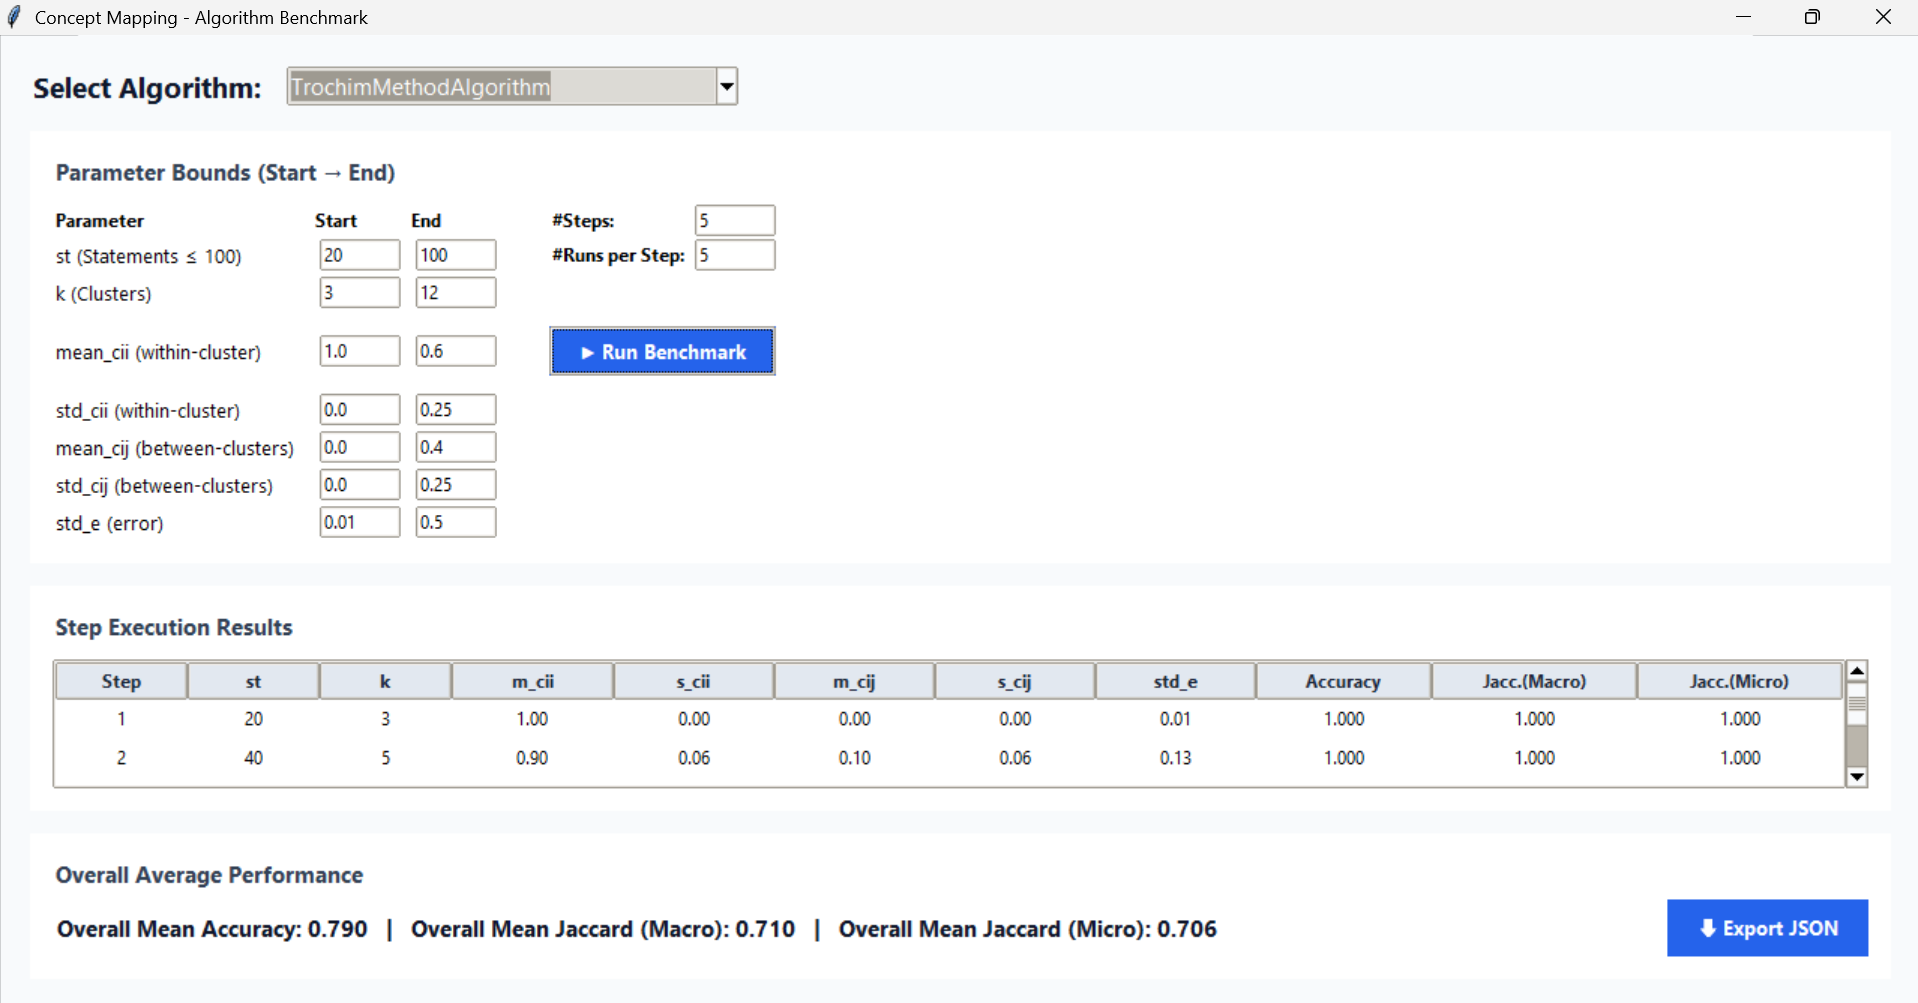
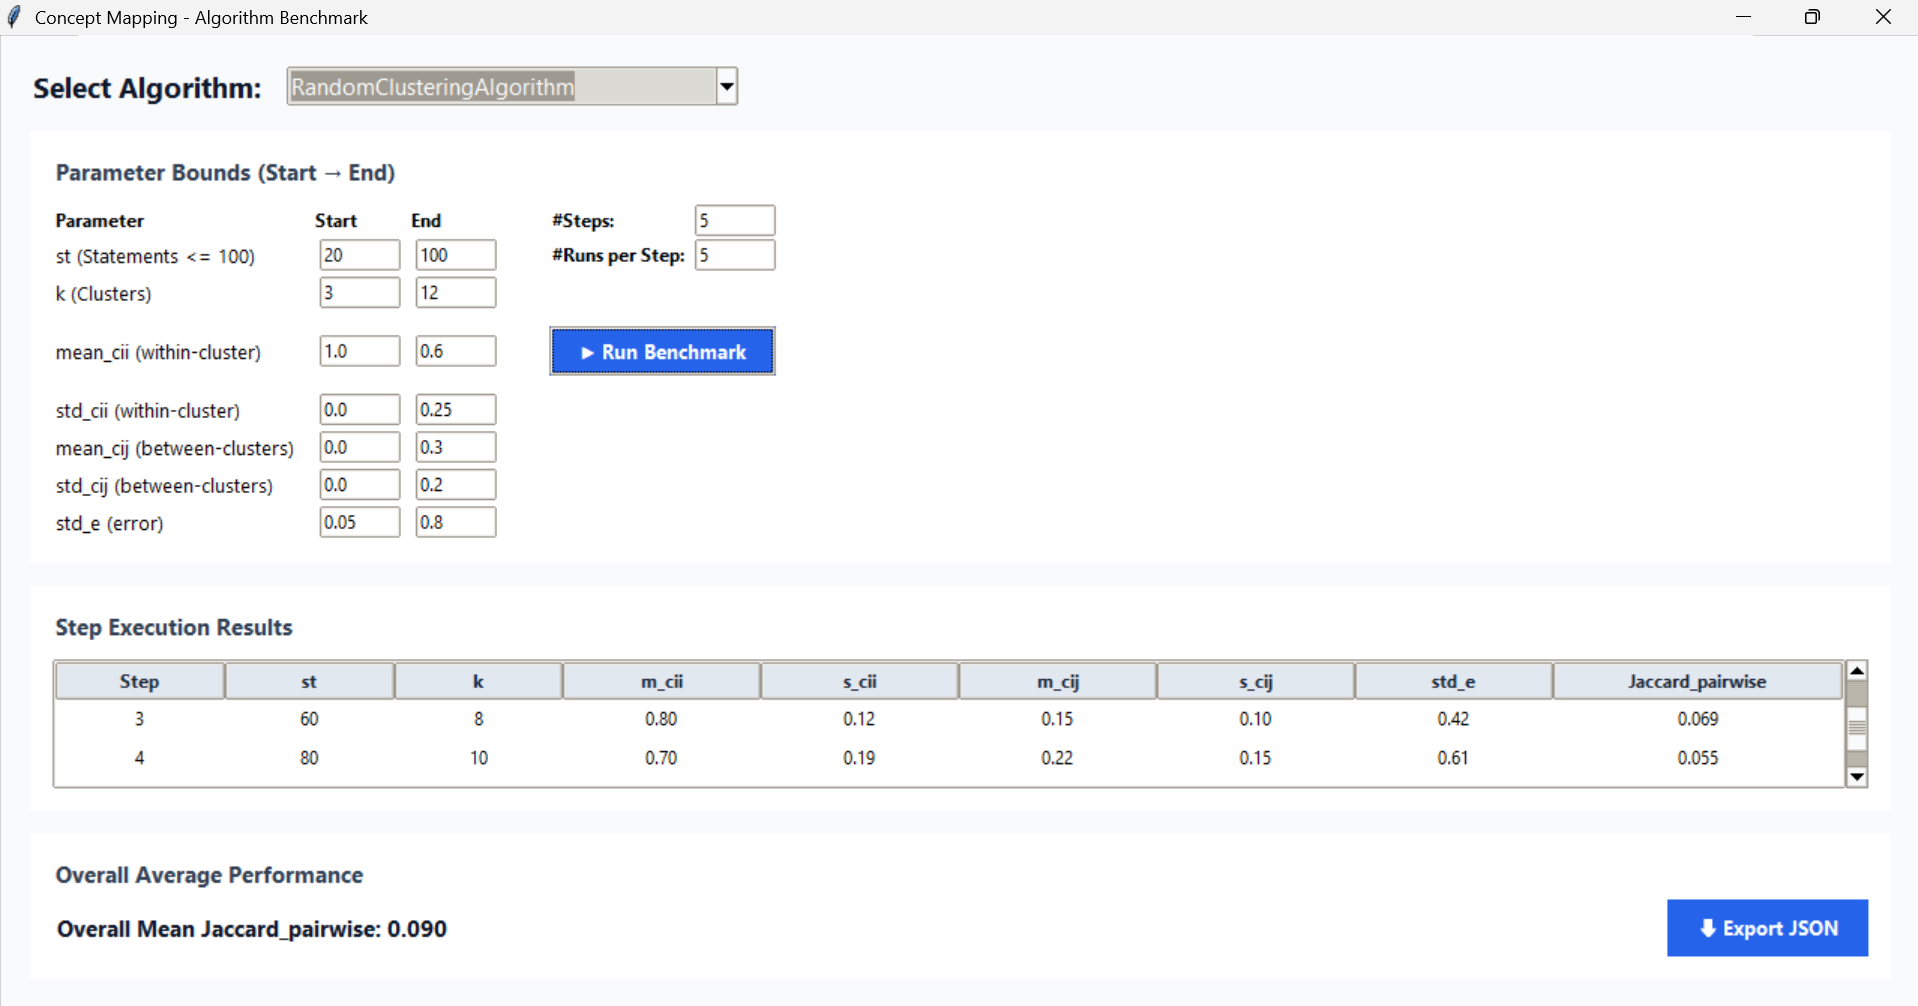
[updated] update images, simplify metrics, update the document, ignore some folders, fix minor changes

diff --git a/gui/app.py b/gui/app.py
@@ -4,7 +4,6 @@ import numpy as np
 import matplotlib.pyplot as plt
 from matplotlib.backends.backend_tkagg import FigureCanvasTkAgg
 from sklearn.manifold import MDS
-import pandas as pd
 import json
 import os
 import sys
@@ -89,9 +88,6 @@ class ExperimentApp:
         main_container = ttk.Frame(self.root, padding=20)
         main_container.pack(fill=tk.BOTH, expand=True)
 
-        # -----------------------------------------------------
-        # 1. HEADER CARD
-        # -----------------------------------------------------
         header_frame = ttk.Frame(main_container)
         header_frame.pack(side=tk.TOP, fill=tk.X, pady=(0, 15))
         ttk.Label(header_frame, text="Select Algorithm:", style="Header.TLabel").pack(side=tk.LEFT)
@@ -105,18 +101,14 @@ class ExperimentApp:
         elif self.available_algs:
             self.alg_combo.current(0)
 
-        # -----------------------------------------------------
-        # 2. CONFIGURATION CARD
-        # -----------------------------------------------------
         config_card = ttk.Frame(main_container, style="Card.TFrame", padding=15)
         config_card.pack(side=tk.TOP, fill=tk.X, pady=(0, 15))
 
-        ttk.Label(config_card, text="Parameter Bounds (Start → End)", style="SubHeader.TLabel").grid(row=0, column=0, columnspan=6, sticky="w", pady=(0, 10))
+        ttk.Label(config_card, text="Parameter Bounds (Start -> End)", style="SubHeader.TLabel").grid(row=0, column=0, columnspan=6, sticky="w", pady=(0, 10))
 
         self.inputs = {}
         json_params = self.settings.get("parameters", {})
         
-        # Tuple format: (Label, Key, Default Start, Default End)
         param_keys = [
             ("st (Statements <= 100)", "st", "20", "100"),
             ("k (Clusters)", "k", "3", "12"),
@@ -134,7 +126,6 @@ class ExperimentApp:
         for idx, (label, key, def_start, def_end) in enumerate(param_keys, start=2):
             ttk.Label(config_card, text=label, background="#ffffff").grid(row=idx, column=0, sticky="w", pady=2, padx=(0, 10))
             
-            # Fetch from JSON if exists, otherwise use the realistic defaults defined above
             start_val = str(json_params.get(label, {}).get("start", def_start))
             end_val = str(json_params.get(label, {}).get("end", def_end))
             
@@ -160,12 +151,9 @@ class ExperimentApp:
         self.iters_entry.insert(0, str(run_settings.get("iterations_per_step", 5)))
         self.iters_entry.grid(row=2, column=5, sticky="w")
 
-        run_btn = ttk.Button(config_card, text="▶ Run Benchmark", style="Primary.TButton", command=self.run_experiment)
+        run_btn = ttk.Button(config_card, text="Run Benchmark", style="Primary.TButton", command=self.run_experiment)
         run_btn.grid(row=4, column=4, columnspan=2, sticky="ew", padx=(30, 0), pady=10)
 
-        # -----------------------------------------------------
-        # 3. SUMMARY CARD (Pinned to the BOTTOM)
-        # -----------------------------------------------------
         summary_card = ttk.Frame(main_container, style="Card.TFrame", padding=15)
         summary_card.pack(side=tk.BOTTOM, fill=tk.X, pady=(15, 0))
 
@@ -185,7 +173,7 @@ class ExperimentApp:
 
         self.export_btn = tk.Button(
             bottom_row, 
-            text="⬇ Export JSON", 
+            text="Export JSON", 
             command=self.export_results,
             bg="#2563eb",
             fg="#ffffff",
@@ -197,9 +185,6 @@ class ExperimentApp:
         )
         self.export_btn.pack(side=tk.RIGHT)
 
-        # -----------------------------------------------------
-        # 4. TABLE CARD (Takes remaining space)
-        # -----------------------------------------------------
         table_card = ttk.Frame(main_container, style="Card.TFrame", padding=15)
         table_card.pack(side=tk.TOP, fill=tk.BOTH, expand=True)
 
@@ -211,7 +196,7 @@ class ExperimentApp:
         scrollbar = ttk.Scrollbar(tree_container, orient=tk.VERTICAL)
         scrollbar.pack(side=tk.RIGHT, fill=tk.Y)
 
-        columns = ("step", "st", "k", "mean_cii", "std_cii", "mean_cij", "std_cij", "std_e", "accuracy", "jaccard_eqcluster", "jaccard_eqst")
+        columns = ("step", "st", "k", "mean_cii", "std_cii", "mean_cij", "std_cij", "std_e", "jaccard_pairwise")
         
         self.tree = ttk.Treeview(tree_container, columns=columns, show="headings", height=6, yscrollcommand=scrollbar.set)
         scrollbar.config(command=self.tree.yview)
@@ -220,7 +205,7 @@ class ExperimentApp:
             "step": ("Step", 50), "st": ("st", 50), "k": ("k", 50), 
             "mean_cii": ("m_cii", 70), "std_cii": ("s_cii", 70), 
             "mean_cij": ("m_cij", 70), "std_cij": ("s_cij", 70), "std_e": ("std_e", 70),
-            "accuracy": ("Accuracy", 80), "jaccard_eqcluster": ("Jaccard_eqcluster", 130), "jaccard_eqst": ("Jaccard_eqst", 110)
+            "jaccard_pairwise": ("Jaccard_pairwise", 130)
         }
         
         for col, (head, width) in col_settings.items():
@@ -267,15 +252,11 @@ class ExperimentApp:
                     f"{row['mean_cij']:.2f}",
                     f"{row['std_cij']:.2f}",
                     f"{row['std_e']:.2f}",
-                    f"{row['accuracy']:.3f}",
-                    f"{row['jaccard_eqcluster']:.3f}",
-                    f"{row['jaccard_eqst']:.3f}"
+                    f"{row['jaccard_pairwise']:.3f}"
                 ))
 
             summary_text = (
-                f"Overall Mean Accuracy: {overall['overall_accuracy']:.3f}   |   "
-                f"Overall Mean Jaccard_eqcluster: {overall['overall_jaccard_eqcluster']:.3f}   |   "
-                f"Overall Mean Jaccard_eqst: {overall['overall_jaccard_eqst']:.3f}"
+                f"Overall Mean Jaccard_pairwise: {overall['overall_jaccard_pairwise']:.3f}"
             )
             self.metrics_lbl.config(text=summary_text, fg="#0f172a", font=("Segoe UI", 11, "bold"))
 
@@ -335,7 +316,7 @@ class MathModeApp:
         right_frame = tk.Frame(self.root, width=400, padx=10, pady=10)
         right_frame.pack(side=tk.RIGHT, fill=tk.Y)
 
-        tk.Label(left_frame, text="1Configuration", font=("Arial", 12, "bold")).pack(pady=5)
+        tk.Label(left_frame, text="1. Configuration", font=("Arial", 12, "bold")).pack(pady=5)
 
         self.inputs = {}
         labels = ["st", "k", "mean_cii", "std_cii", "mean_cij", "std_cij", "std_e"]
@@ -394,7 +375,7 @@ class MathModeApp:
             frame = tk.Frame(self.scrollable_frame)
             frame.pack(fill=tk.X, pady=(10, 0))
             tk.Label(frame, text=f"Matrix {mat_name}", font=("Arial", 10, "bold")).pack(side=tk.LEFT)
-            tk.Button(frame, text="🔍 Expand", font=("Arial", 8), command=lambda m=mat_name: self.expand_matrix(m)).pack(side=tk.RIGHT)
+            tk.Button(frame, text="Expand", font=("Arial", 8), command=lambda m=mat_name: self.expand_matrix(m)).pack(side=tk.RIGHT)
 
             txt = tk.Text(self.scrollable_frame, height=6, width=45, wrap=tk.NONE)
             txt.pack(fill=tk.X)

diff --git a/src/evaluation.py b/src/evaluation.py
@@ -1,7 +1,5 @@
 import numpy as np
 import pandas as pd
-from scipy.optimize import linear_sum_assignment
-from sklearn.metrics import accuracy_score, jaccard_score
 
 class Evaluator:
     """Evaluates predicted Z_alg matrices against true Z matrices."""
@@ -9,35 +7,32 @@ class Evaluator:
     def __init__(self, Z_true: np.ndarray, Z_alg: np.ndarray):
         self.Z_true = Z_true
         self.Z_alg = Z_alg
-        self.Z_alg_aligned = self._align_labels()
 
-    def _align_labels(self) -> np.ndarray:
+    def calculate_pairwise_jaccard(self) -> float:
         """
-        Solves the label permutation problem by maximizing the intersection 
-        between true clusters and predicted clusters.
-        """
-        cost_matrix = - (self.Z_true.T @ self.Z_alg)
-        row_ind, col_ind = linear_sum_assignment(cost_matrix)
-        
-        Z_alg_aligned = np.zeros_like(self.Z_alg)
-        for true_idx, alg_idx in zip(row_ind, col_ind):
-            Z_alg_aligned[:, true_idx] = self.Z_alg[:, alg_idx]
-            
-        return Z_alg_aligned
+        Calculates pairwise co-clustering Jaccard on the upper triangle.
 
-    def get_labels(self, Z_matrix: np.ndarray) -> np.ndarray:
-        """Converts a one-hot Z matrix into a 1D array of cluster labels."""
-        return np.argmax(Z_matrix, axis=1)
+        This compares whether each pair of statements is placed together in
+        both the true and predicted partitions, excluding the diagonal.
+        """
+        y_true = np.argmax(self.Z_true, axis=1)
+        y_pred = np.argmax(self.Z_alg, axis=1)
+
+        true_pairs = y_true[:, None] == y_true[None, :]
+        pred_pairs = y_pred[:, None] == y_pred[None, :]
+        mask = np.triu(np.ones_like(true_pairs, dtype=bool), k=1)
+
+        intersection = np.logical_and(true_pairs, pred_pairs)[mask].sum()
+        union = np.logical_or(true_pairs, pred_pairs)[mask].sum()
+
+        if union == 0:
+            return 1.0
+        return float(intersection / union)
 
     def evaluate(self) -> dict:
-        """Calculates aligned accuracy and Jaccard metrics."""
-        y_true = self.get_labels(self.Z_true)
-        y_pred = self.get_labels(self.Z_alg_aligned)
-        
+        """Calculates pairwise co-clustering Jaccard."""
         return {
-            "accuracy": accuracy_score(y_true, y_pred),
-            "jaccard_eqcluster": jaccard_score(y_true, y_pred, average="macro", zero_division=0),
-            "jaccard_eqst": jaccard_score(y_true, y_pred, average="micro", zero_division=0)
+            "jaccard_pairwise": self.calculate_pairwise_jaccard()
         }
 
 class ResultAggregator:
@@ -48,10 +43,8 @@ class ResultAggregator:
         """
         Calculates the mean of all metrics for each difficulty step across its iterations.
         """
-        # Updated to include ALL 7 parameters in the grouping
         group_cols = ["step", "st", "k", "mean_cii", "std_cii", "mean_cij", "std_cij", "std_e"]
-        summary = df.groupby(group_cols)[["accuracy", "jaccard_eqcluster", "jaccard_eqst"]].mean().reset_index()
-        return summary
+        return df.groupby(group_cols)[["jaccard_pairwise"]].mean().reset_index()
 
     @staticmethod
     def calculate_overall_means(df: pd.DataFrame) -> dict:
@@ -59,7 +52,5 @@ class ResultAggregator:
         Calculates the overall mean metrics across the entire experiment (all steps and iterations).
         """
         return {
-            "overall_accuracy": df["accuracy"].mean(),
-            "overall_jaccard_eqcluster": df["jaccard_eqcluster"].mean(),
-            "overall_jaccard_eqst": df["jaccard_eqst"].mean()
+            "overall_jaccard_pairwise": df["jaccard_pairwise"].mean()
         }

diff --git a/main.py b/main.py
@@ -1,22 +1,6 @@
 import argparse
 import tkinter as tk
 
-def launch_experiment_gui():
-    """Starts the default experiment GUI with dynamic algorithm discovery."""
-    from gui.app import ExperimentApp
-
-    root = tk.Tk()
-    app = ExperimentApp(root)
-    root.mainloop()
-
-def launch_math_gui():
-    """Starts the framework strictly in Mathematical/Matrix viewing mode."""
-    from gui.app import MathModeApp
-
-    root = tk.Tk()
-    app = MathModeApp(root)
-    root.mainloop()
-
 if __name__ == "__main__":
     parser = argparse.ArgumentParser(description="Concept Mapping Framework CLI")
     parser.add_argument(
@@ -28,8 +12,13 @@ if __name__ == "__main__":
     )
     
     args = parser.parse_args()
+    root = tk.Tk()
     
     if args.mode == "math":
-        launch_math_gui()
+        from gui.app import MathModeApp
+        app = MathModeApp(root)
     else:
-        launch_experiment_gui()
+        from gui.app import ExperimentApp
+        app = ExperimentApp(root)
+
+    root.mainloop()

diff --git a/README.md b/README.md
@@ -9,7 +9,7 @@ This repository implements a synthetic benchmark for concept mapping clustering 
 - `src/generator.py`: synthetic generation of `Z`, `C`, `S0`, `E`, and `S`.
 - `src/generation_benchmark.py`: interpolation of easy-to-hard benchmark parameter steps.
 - `src/algorithms.py`: base class and implemented algorithms.
-- `src/evaluation.py`: label alignment, accuracy, and Jaccard metrics.
+- `src/evaluation.py`: pairwise co-clustering Jaccard evaluation.
 - `experiment_settings.json`: default GUI parameters.
 - `results/`: JSON benchmark outputs.
 
@@ -52,15 +52,11 @@ The JSON contains the selected algorithm, save time, overall mean metrics, step 
 
 ## Evaluation Metrics
 
-Predicted cluster labels are first aligned with the ground truth by solving the label permutation problem with the Hungarian algorithm.
+The framework currently uses one evaluation metric:
 
-The current metrics are:
+- `jaccard_pairwise`: pairwise co-clustering Jaccard, computed on statement pairs using the upper triangle of the co-clustering matrices, excluding the diagonal.
 
-- `accuracy`: fraction of statements assigned to the correct aligned cluster.
-- `jaccard_eqcluster`: macro Jaccard coefficient, computed as the mean Jaccard index over clusters, giving each cluster equal weight.
-- `jaccard_eqst`: micro Jaccard coefficient, computed globally over pooled statement decisions, giving statements equal contribution.
-
-For each benchmark step, the framework averages metrics over repeated runs. Overall means are then computed across all raw runs.
+This metric is label-invariant because it compares whether pairs of statements are co-clustered in both the true and predicted partitions. For each benchmark step, the framework averages the metric over repeated runs. The overall mean is then computed across all raw runs.
 
 ## Implementing New Algorithms
 
